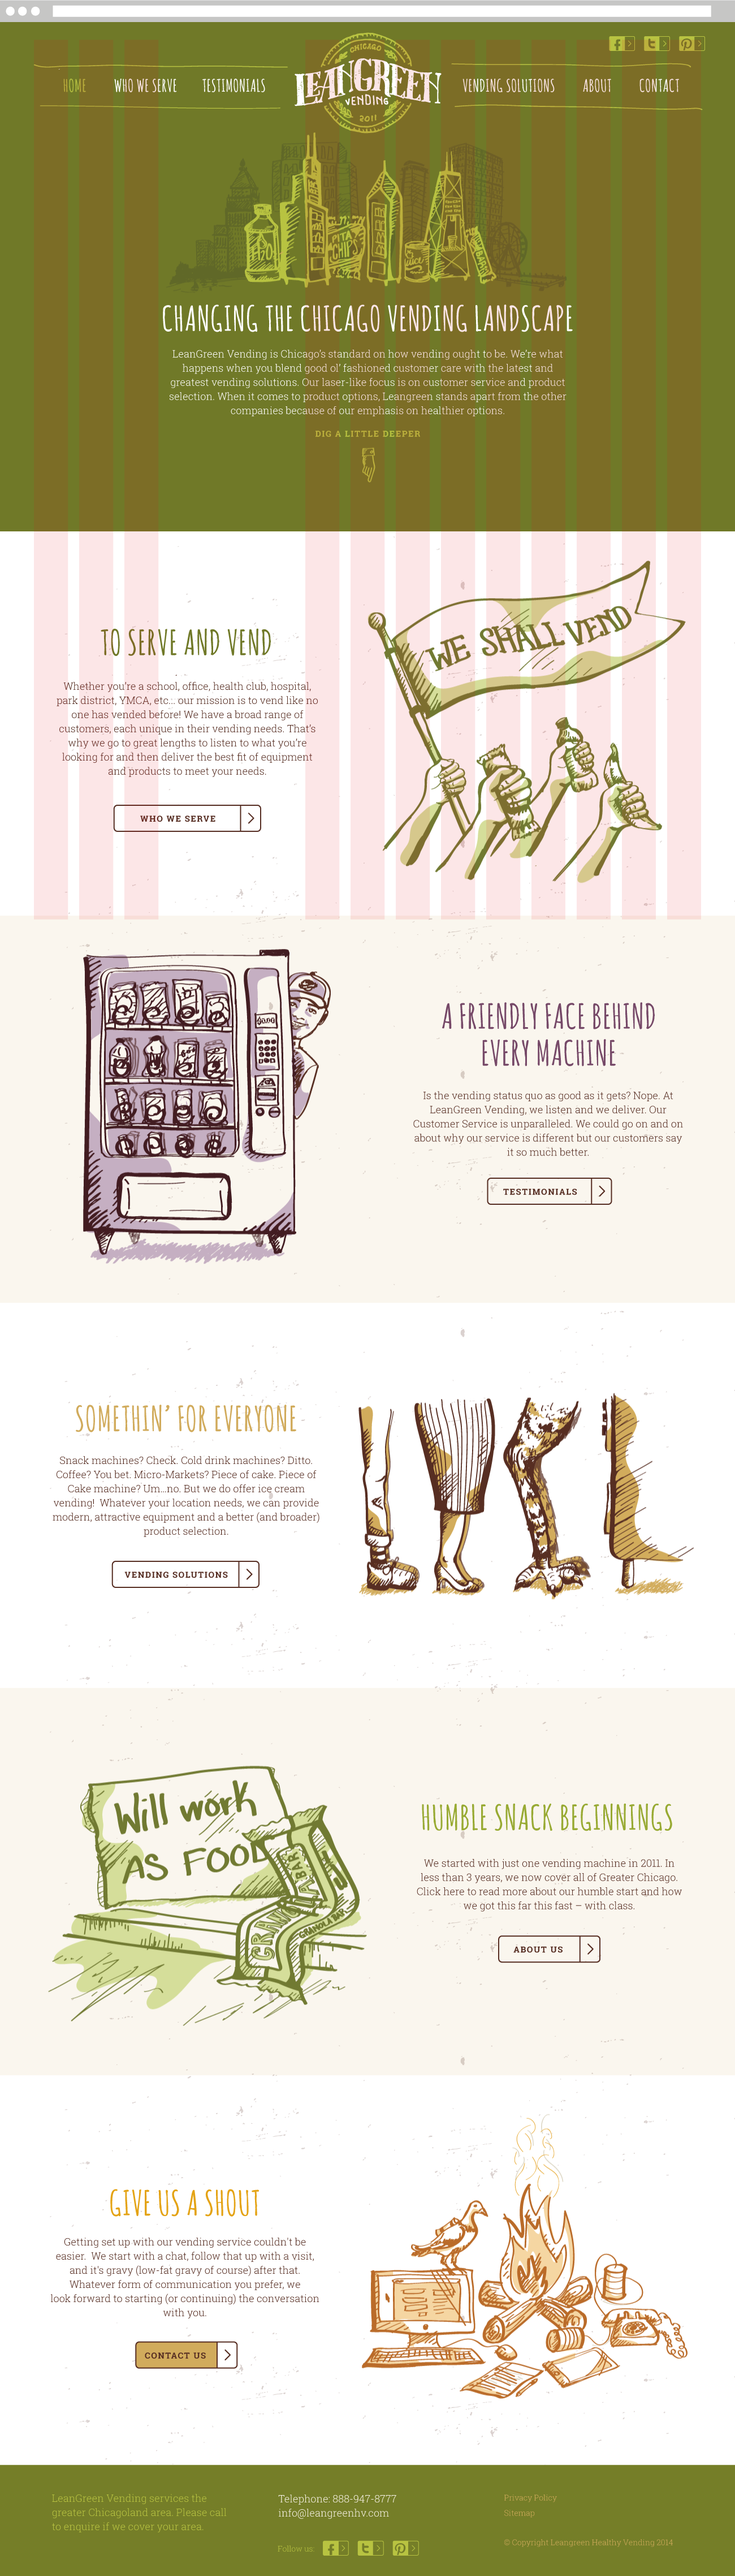
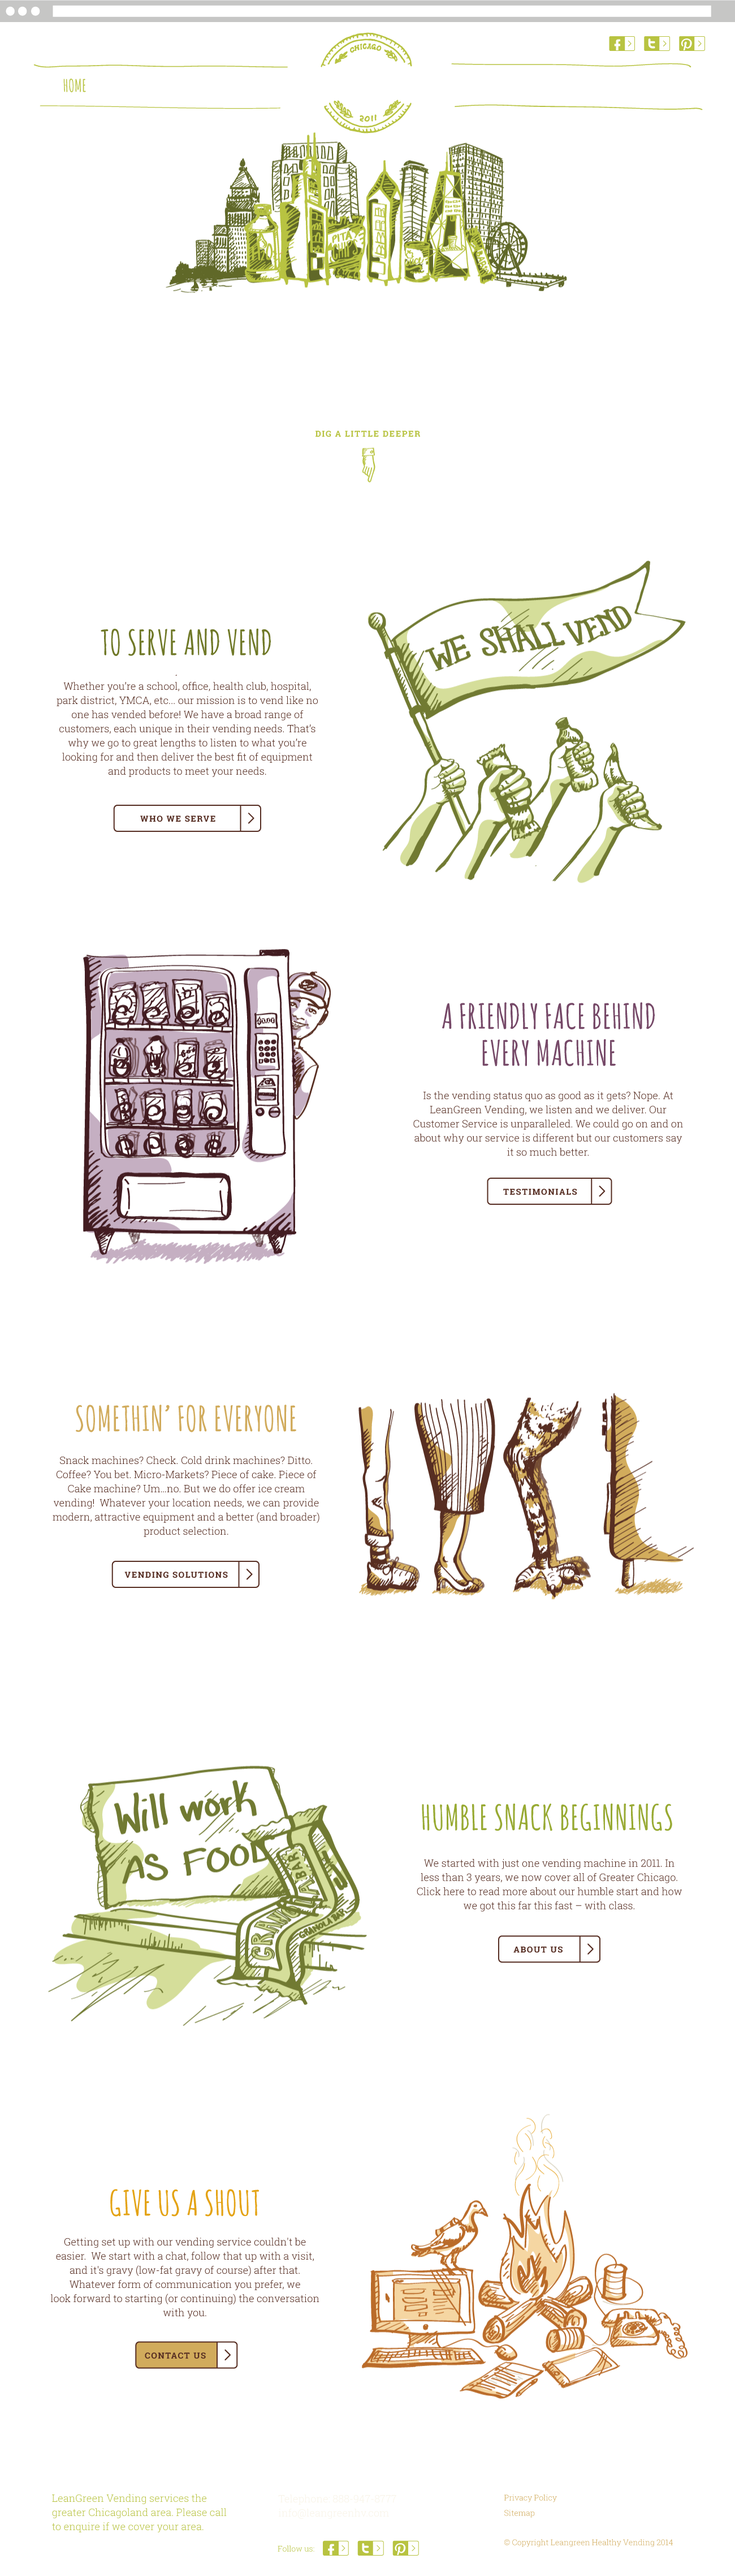
Fixing home page

diff --git a/dev/css/global.css b/dev/css/global.css
@@ -16,10 +16,9 @@ body {
   	font-size: 18px;
   	font-weight: 300;
   	color: #ffffff;
-  	background-image: url("../design/Global Assets/bg_texture.png");
+  	background-image: url("../../design/Global Assets/bg_texture.png");
   	background-repeat: repeat;
 }
-
 h1 {
   	margin: 0;
   	padding: 0;
@@ -38,6 +37,19 @@ h3 {
 	color: #b8c341;
 	text-transform: uppercase;
 	text-align: center;
+}
+section {
+  width: 100%;
+  margin:0 auto;
+  display: block;
+}
+section h1,
+section p{
+  text-align: center;
+}
+img {
+  border: 0;
+  margin: 0 auto;
 }
 
 /* --------------------
@@ -280,7 +292,7 @@ header {
 	padding: 20px 0 0;
 	background-color: #707928;
 	text-align: center;
-	background-image: url("../design/Home/Assets/bg_home_header_Texture.png");
+	background-image: url("../../design/Home/Assets/bg_home_header_Texture.png");
 	background-repeat: repeat;
 	height: 180px;
 }
@@ -295,10 +307,11 @@ nav {
 }
 nav.main {
 	background-color: #707928;
+  padding-top: 50px;
 }
 nav ul {
 	list-style: none;
-	padding: 45px 0 0;
+	padding: 20px 0 25px;
 }
 nav ul li {
 	float: left;
@@ -319,95 +332,6 @@ nav ul li a:hover {
 nav img {
 	float: left;
 	width: 100%;
-}
-
-/* --------------------
-   Home
-   -------------------- */
-
-section {
-	width: 100%;
-	margin:0 auto;
-	display: block;
-}
-section h1,
-section p{
-	text-align: center;
-}
-section.homeMain {
-	background-color: #707928;
-	padding-bottom: 60px;
-}
-section.homeOne {
-	background-color: #f8f2e7
-}
-section.homeOne .col,
-section.homeTwo .col {
-	height: 620px;
-	padding: 30px 0;
-
-}
-section.homeOne p,
-section.homeTwo p {
-	color: #562d22;
-	text-align: center;
-	margin-bottom: 40px;
-}
-.colorGreen {
-	color: #707928;
-}
-.colorPurple {
-	color: #764968;
-}
-.colorGold {
-	color: #d1ab5c;
-}
-.colorLtGreen {
-	color: #98aa33;
-}
-.colorOrange {
-	color: #e4a314;
-}
-button {
-	background: url("../design/Global Assets/btn_arrow_default2.png");
-	background-repeat: no-repeat;
-	background-position: right center;
-	border-radius: 7px;
-	border: 2px solid #562d22;
-	padding: 0 36px 0 0;
-	color: #562d22;
-	font-size: 15px;
-	font-weight: 700;
-	text-transform: uppercase;
-	font-family: 'Roboto Slab';
-	display: block;
-	margin: 0 auto;
-}
-button span {
-	display: block;
-	padding: 8px 20px;
-}
-button:hover span{
-
-	color: #ffffff;
-}
-button:hover span.bgOrange{
-	background-color: #E4A314;
-}
-button:hover span.bgGreen {
-	background-color: #707928;
-}
-button:hover span.bgPurple {
-	background-color: #764968;
-}
-button:hover span.bgGold {
-	background-color: #d1ab5c;
-}
-button:hover span.bgLtGreen {
-	background-color: #98aa33;
-}
-button:hover span.bgOrange {
-	background-color: #e4a314;
 }
 
 /* Mobile */

diff --git a/dev/css/home.css b/dev/css/home.css
@@ -1,0 +1,92 @@
+/* --------------------
+   Home
+   -------------------- */
+
+section.homeMain {
+	background-color: #707928;
+	padding-bottom: 60px;
+}
+section.homeOne {
+	background-color: #f8f2e7
+}
+section.homeOne .col,
+section.homeTwo .col {
+	height: 620px;
+	padding: 30px 0;
+
+}
+section.homeOne p,
+section.homeTwo p {
+	color: #562d22;
+	text-align: center;
+	margin-bottom: 40px;
+}
+.colorGreen {
+	color: #707928;
+}
+.colorPurple {
+	color: #764968;
+}
+.colorGold {
+	color: #d1ab5c;
+}
+.colorLtGreen {
+	color: #98aa33;
+}
+.colorOrange {
+	color: #e4a314;
+}
+button {
+	background: url("../../design/Global Assets/btn_arrow_default2.png");
+	background-repeat: no-repeat;
+	background-position: right center;
+	border-radius: 7px;
+	border: 2px solid #562d22;
+	padding: 0 36px 0 0;
+	color: #562d22;
+	font-size: 15px;
+	font-weight: 700;
+	text-transform: uppercase;
+	font-family: 'Roboto Slab';
+	display: block;
+	margin: 0 auto;
+}
+button span {
+	display: block;
+	padding: 8px 20px;
+}
+button:hover span{
+
+	color: #ffffff;
+}
+button:hover span.bgOrange{
+	background-color: #E4A314;
+}
+button:hover span.bgGreen {
+	background-color: #707928;
+}
+button:hover span.bgPurple {
+	background-color: #764968;
+}
+button:hover span.bgGold {
+	background-color: #d1ab5c;
+}
+button:hover span.bgLtGreen {
+	background-color: #98aa33;
+}
+button:hover span.bgOrange {
+	background-color: #e4a314;
+}
+nav ul.leftNav {
+	background-image: url("../../design/Global Assets/nav_bgBorder_left.png");
+}
+nav ul.rightNav {
+	background-image: url("../../design/Global Assets/nav_bgBorder_right.png");
+}
+nav ul.leftNav,
+nav ul.rightNav {
+	background-repeat: no-repeat;
+}
+.logoHome {
+	margin-top: -45px;
+}

diff --git a/dev/index.html b/dev/index.html
@@ -1,18 +1,19 @@
 <html>
 	<head>
 		<link href="http://fonts.googleapis.com/css?family=Roboto+Slab:400,300,700|Amatic+SC:400,700" rel="stylesheet" type="text/css">
-		<link href="styles.css" rel="stylesheet" type="text/css">
+		<link href="css/global.css" rel="stylesheet" type="text/css">
+		<link href="css/home.css" rel="stylesheet" type="text/css">
 	</head>
 	<body>
 		<header>
 			<nav class="main">
-				<ul class="large_6 col">
+				<ul class="large_6 col leftNav">
 					<li><a href="#">Home</a></li>
 					<li><a href="#">Who We Serve</a></li>
 					<li><a href="#">Testimonials</a></li>
 				</ul>
-				<div class="large_3 col"><img src="../design/Global Assets/img_global_logo.png"></div>
-				<ul class="large_6 col">
+				<div class="large_3 col logoHome"><img src="../design/Global Assets/img_global_logo.png"></div>
+				<ul class="large_6 col rightNav">
 					<li><a href="#">Vending Solutions</a></li>
 					<li><a href="#">About</a></li>
 					<li><a href="#">Contact</a></li>
